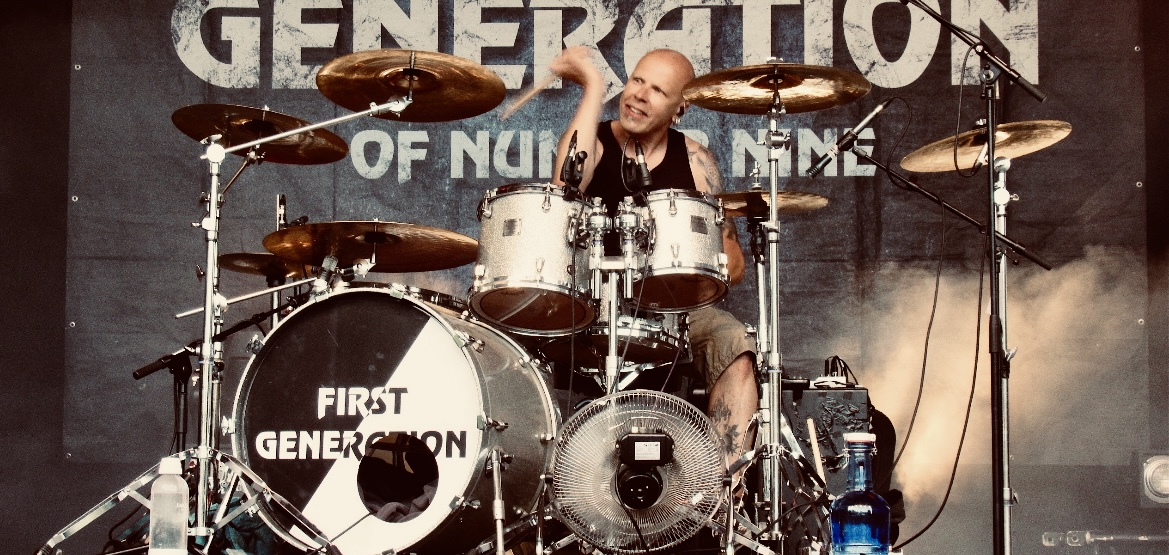
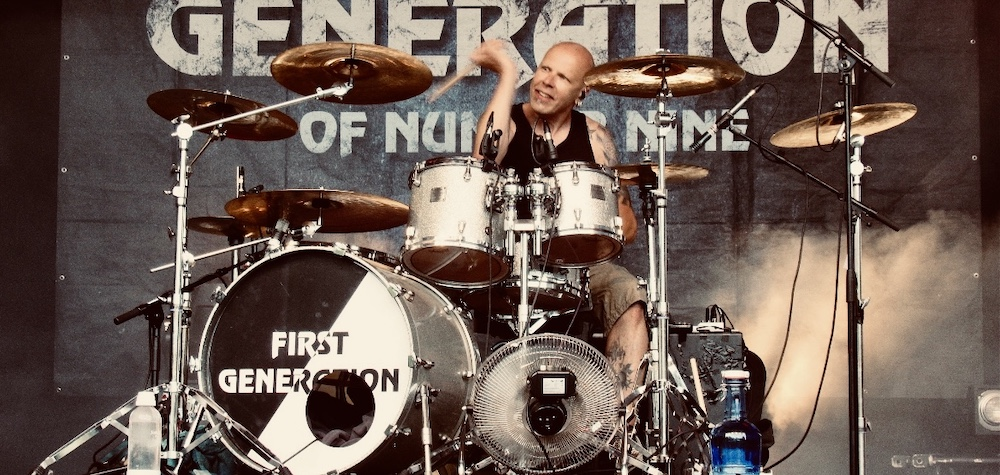
fix images

diff --git a/src/app/components/AdditionalImages.tsx b/src/app/components/AdditionalImages.tsx
@@ -4,7 +4,7 @@ const AdditionalImages = () => {
   return (
     <div className="additional-images-container">
       <ParagraphImage
-        src="/image4.jpg"
+        src="/image4cropped.jpg"
         alt="Dominik Hülshorst spielt leidenschaftlich am Schlagzeug"
         size={`(max-width: 768px) 100vw, (max-width: 1200px) 60vw`}
       />

diff --git a/src/app/components/Image.tsx b/src/app/components/Image.tsx
@@ -13,13 +13,10 @@ const ParagraphImage = ({
 }) => {
   return (
     <div className={`image-container ${className}`}>
-      <Image
+      <img
         alt={alt}
         src={src}
-        layout="fill"
         className={"image"}
-        quality={70}
-        sizes={size}
       />
     </div>
   );

diff --git a/next.config.js b/next.config.js
@@ -1,4 +1,6 @@
 /** @type {import('next').NextConfig} */
-const nextConfig = {}
+const nextConfig = {
+  output: "export",
+};
 
-module.exports = nextConfig
+module.exports = nextConfig;
